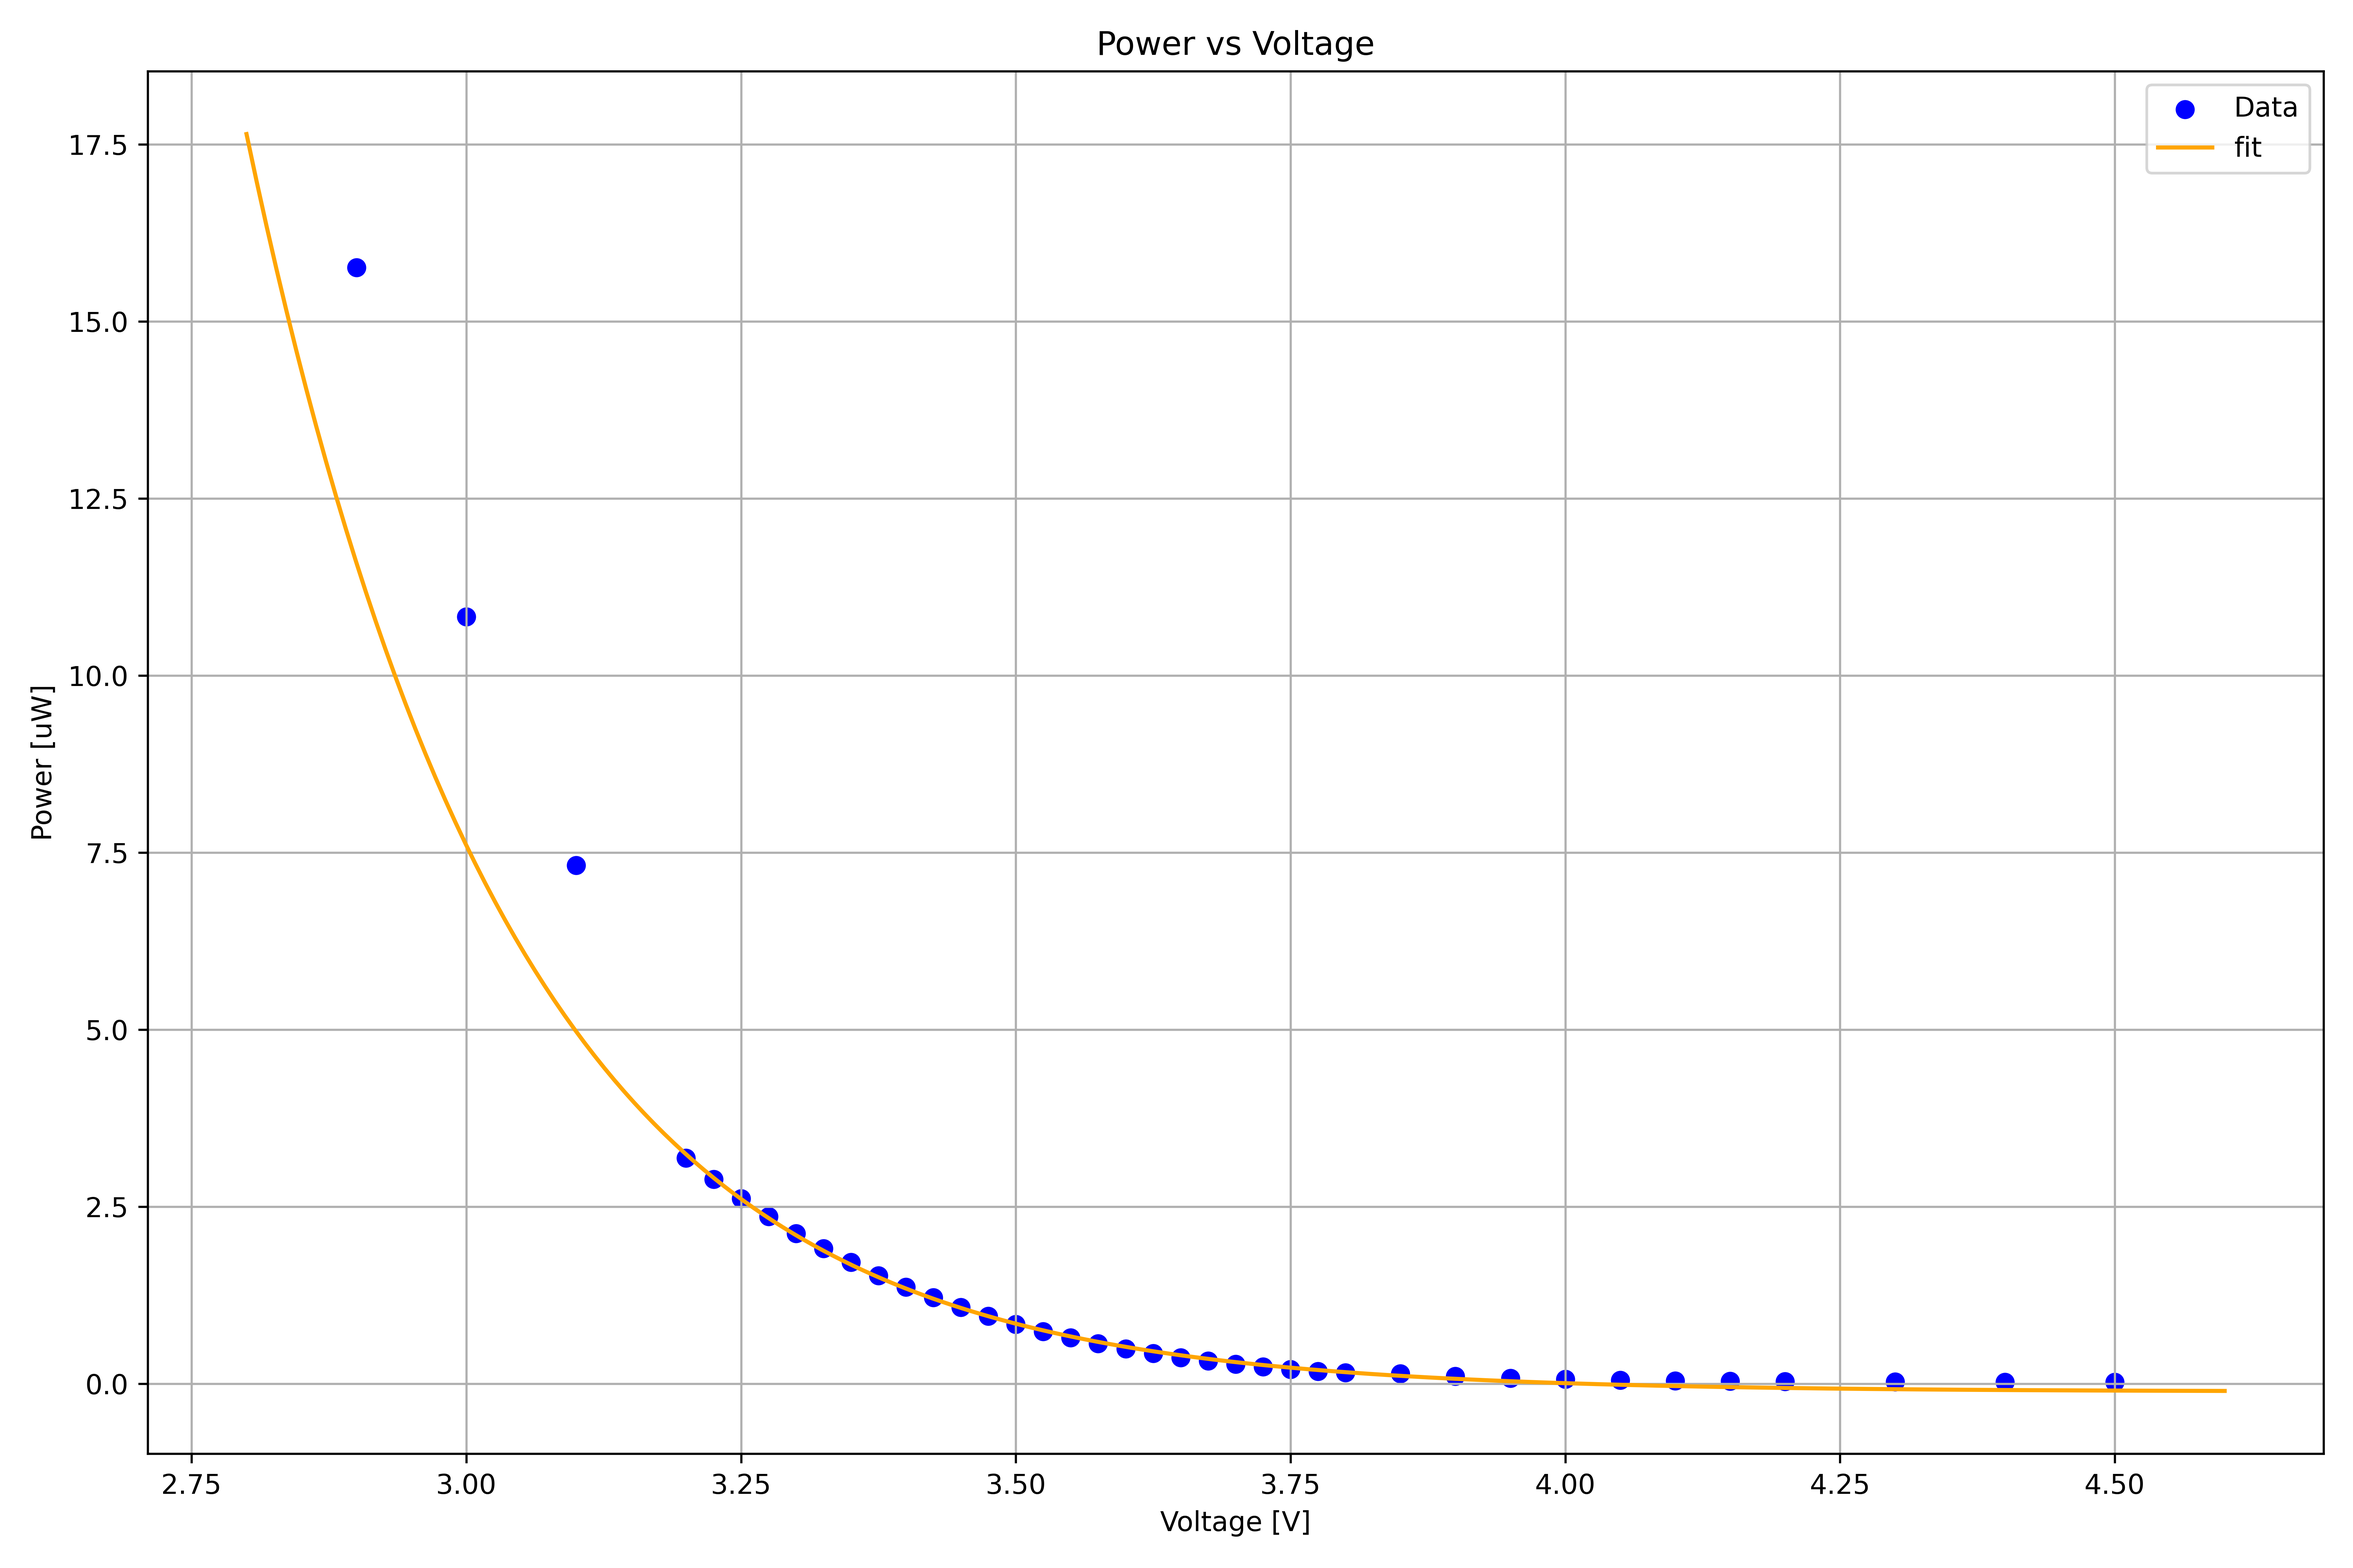
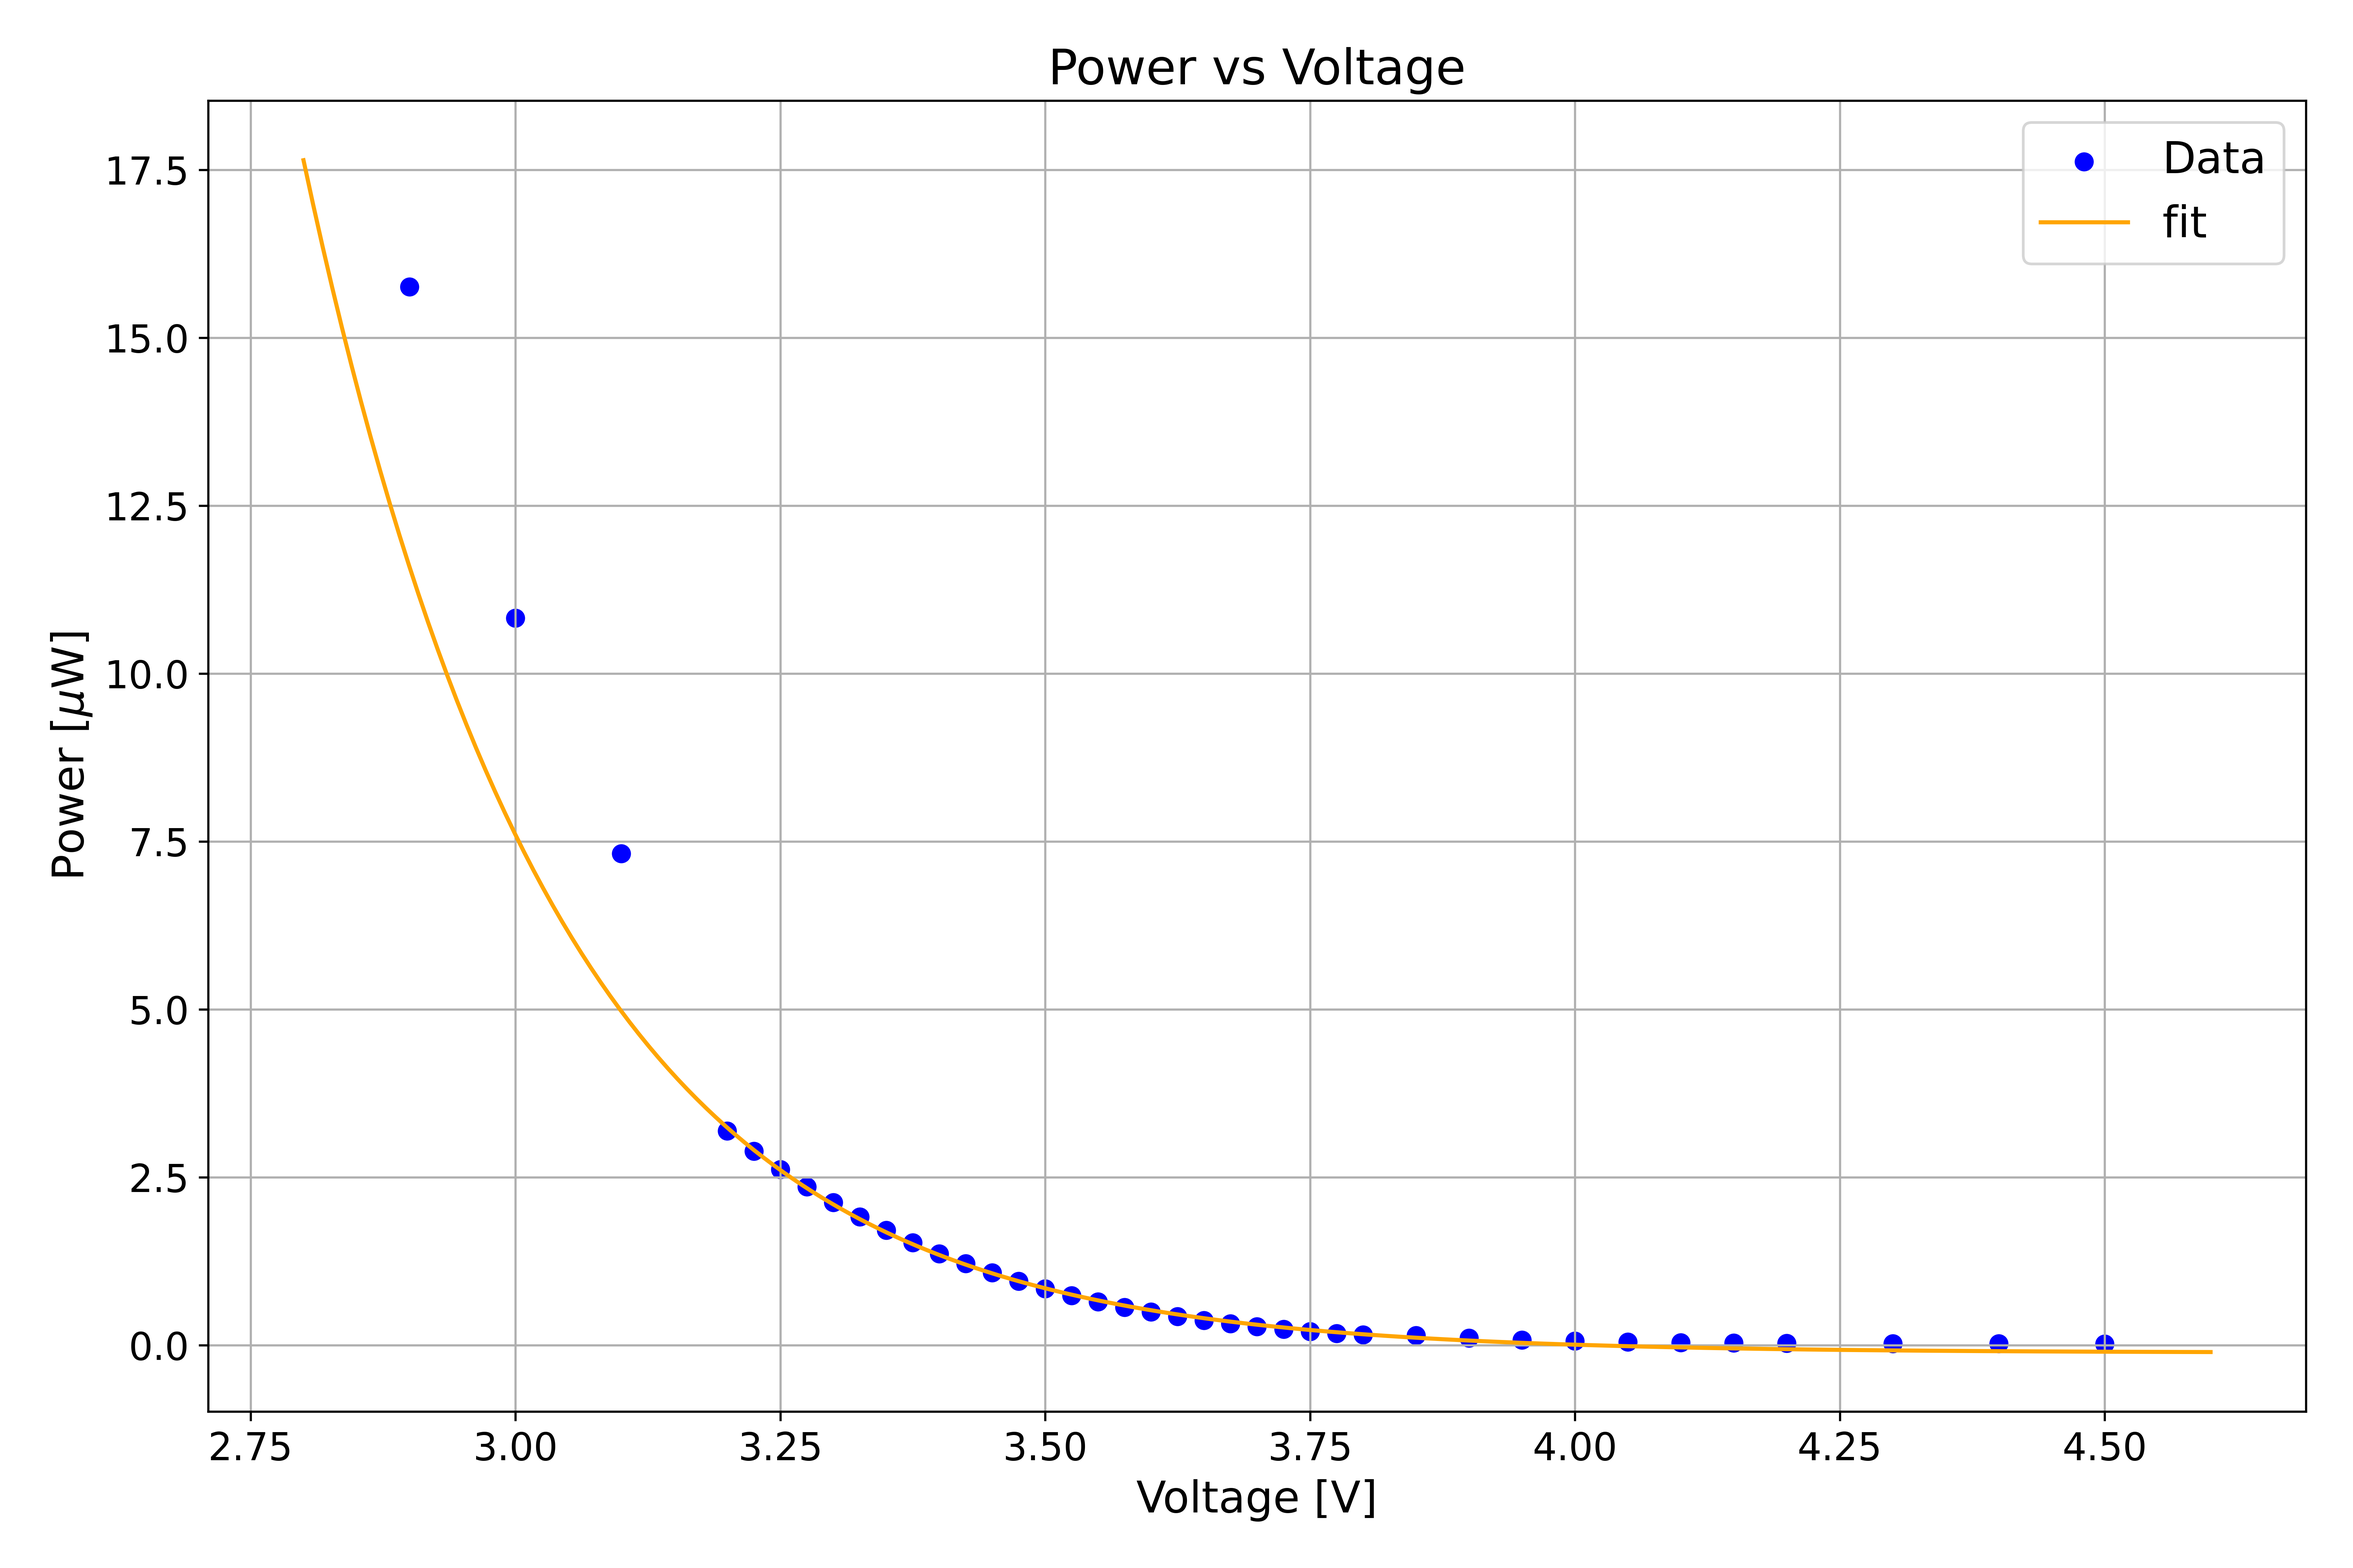
Add laser stability plotting function
- Implemented PlotLaserStability function to analyze and visualize laser stability data.
- The function reads data from a CSV file, filters it based on specific row and column values, and calculates the mean and standard deviation of the 'tot' values.
- Plots the results with error bars and saves the figure as 'LaserStabilityToT.png'.

diff --git a/timepix4/laser_power/fit_curve.py b/timepix4/laser_power/fit_curve.py
@@ -15,19 +15,23 @@ def fit_func(V, A, k, C):
 
 
 def fit_curve(df: pd.DataFrame, V_ref: float):
+    plt.rcParams.update({
+        'font.size': 16,
+        'axes.titlesize': 18,
+        'axes.labelsize': 16,
+        'xtick.labelsize': 14,
+        'ytick.labelsize': 14,
+        'figure.titlesize': 20
+    })
     df_copy = df.copy()
     df = df[((df["V"] >= 3.2) & (df["V"] <= 4.0))]
     P = df["power"].to_numpy()
     V = df["V"].to_numpy()
 
-    # w = 1 / np.sqrt(P)
-
     popt, pcov = curve_fit(
         fit_func,
         V,
         P,
-        # sigma=w,
-        # absolute_sigma=True,
         p0=[50, 1.0 / (np.ptp(V)), 0.01],
     )
 
@@ -37,7 +41,7 @@ def fit_curve(df: pd.DataFrame, V_ref: float):
     plt.scatter(df_copy["V"].to_numpy(), df_copy["power"].to_numpy(), marker="o", color="b", label="Data")
     plt.plot(Vfine, fit_func(Vfine, *popt), linestyle="-", color="orange", label="fit")
     plt.xlabel("Voltage [V]")
-    plt.ylabel("Power [uW]")
+    plt.ylabel("Power [$\mu$W]")
     # plt.xlim(3.10, 4)
     # plt.ylim(0, 5)
     plt.legend()
@@ -47,12 +51,12 @@ def fit_curve(df: pd.DataFrame, V_ref: float):
     plt.savefig("PowerVsVoltage.png", dpi=600)
     plt.show()
 
-    P_ref = fit_func(V_ref, *popt)
-    # voltages from 4.000 down to 3.050 in steps of 0.025
-    Vs = np.linspace(4.0, 3.05, int(round((4.0 - 3.05) / 0.025)) + 1)
-    Vs = np.round(Vs, 3)
-    factors = fit_func(Vs, *popt) / P_ref
-    lut = pd.DataFrame({"voltage": Vs, "relative_factor": factors})
-    lut.to_csv("lookup_table.csv", index=False)
+    # P_ref = fit_func(V_ref, *popt)
+    # # voltages from 4.000 down to 3.050 in steps of 0.025
+    # Vs = np.linspace(4.0, 3.05, int(round((4.0 - 3.05) / 0.025)) + 1)
+    # Vs = np.round(Vs, 3)
+    # factors = fit_func(Vs, *popt) / P_ref
+    # lut = pd.DataFrame({"voltage": Vs, "relative_factor": factors})
+    # lut.to_csv("lookup_table.csv", index=False)
 
     # PlotRelativePower("lookup_table.csv")

diff --git a/timepix4/converters/cluster_data.py b/timepix4/converters/cluster_data.py
@@ -7,20 +7,23 @@ def ConvertClusterData(filepath: str) -> None:
     file = uproot.open(filepath)
     tree = file["clusterTree"]
 
-    arrays_data = tree.arrays(["col", "row", "tot", "nhits", "charge"], library="pd")
+    arrays_data = tree.arrays(["col", "row", "tot", "cltot", "nhits", "charge", "clCharge"], library="pd")
     df_data = pd.DataFrame(
         {
             "col": arrays_data["col"].to_list(),
             "row": arrays_data["row"].to_list(),
             "tot": arrays_data["tot"].to_list(),
+            "cltot": arrays_data["cltot"].to_list(),
             "nhits": arrays_data["nhits"].to_list(),
-            "Raw Charge": arrays_data["charge"].to_list(),
+            "Charge": arrays_data["charge"].to_list(),
+            "clCharge": arrays_data["clCharge"].to_list(),
         }
     )
 
     df_filtered = _FilterAndUnwrap(df_data)
     df_filtered.to_csv(
         f"{sensor}-Charge-Data.csv",
+        index=False,
     )
 
 
@@ -29,5 +32,6 @@ def _FilterAndUnwrap(df: pd.DataFrame) -> pd.DataFrame:
     df_filtered = df_filtered.map(
         lambda x: x[0] if isinstance(x, (list, tuple)) and len(x) == 1 else x
     )
-    df_filtered["Raw Charge"] = df_filtered["Raw Charge"].astype(float) / 1000
+    df_filtered["Charge"] = df_filtered["Charge"].astype(float) / 1000
+    df_filtered["clCharge"] = df_filtered["clCharge"].astype(float) / 1000
     return df_filtered

diff --git a/timepix4/laser_measurement/plotter.py b/timepix4/laser_measurement/plotter.py
@@ -64,40 +64,38 @@ def CompareMethodsPlotter(filepath: str) -> None:
 
     plt.errorbar(
         lut["Charge"],
-        df["Mean Tot"],
-        yerr=df["Std Tot"],
+        lut["Charge"],
         fmt="o",
         markersize=4,
         linestyle="-",
         label="Method: Laser Calibration",
     )
     plt.errorbar(
+        lut["Charge"],
         df["Mean Charge Calibrated"],
-        df["Mean Tot"],
         xerr=df["Std Charge Calibrated"],
-        yerr=df["Std Tot"],
         fmt="o",
         markersize=4,
         linestyle="-",
         label="Method: Manual Calibration",
     )
     plt.errorbar(
+        lut["Charge"],
         df["Mean clCharge"],
-        df["Mean Tot"],
         xerr=df["Std clCharge"],
-        yerr=df["Std Tot"],
         fmt="o",
         markersize=4,
         linestyle="-",
         label="Method: Test Pulse Calibration",
     )
+
     plt.xlabel("Injected Charge [ke]", fontsize=16)
-    plt.ylabel("ToT [25ns]", fontsize=16)
+    plt.ylabel("Measured Charge [ke]", fontsize=16)
     plt.xticks(fontsize=12)
     plt.yticks(fontsize=12)
     plt.title("Comparison of Calibration Methods", fontsize=18)
     plt.xlim(0, 400)
-    plt.ylim(0, 2000)
+    plt.ylim(0, 400)
     plt.legend(fontsize=16)
     plt.grid()
     plt.tight_layout()

diff --git a/Convert.py b/Convert.py
@@ -20,21 +20,25 @@ def convert_test_pulse_data() -> None:
     #         charge_file_path=filepath,
     #         output_path_results=OutputPathResults,
     #     )
-    ConvertTestPulseData(charge_file_path= "N116_charge.txt", output_path_results="./")
+    ConvertTestPulseData(charge_file_path="N116_charge.txt", output_path_results="./")
+
 
 def convert_cluster_data() -> None:
     import os
 
+    ConvertClusterData(
+        "N116-250513-133553.root",
+    )
     # RootFilePath = "Data/Am-241 Runs/N116-250408-105332.root"
-    folder = "Data/Laser Measurements"
-    RootFilePaths = [File for File in os.listdir(folder) if File.endswith(".root")]
-    for RootFilePath in RootFilePaths:
-        ConvertClusterData(RootFilePath)
+    # folder = "Data/Laser Measurements"
+    # RootFilePaths = [File for File in os.listdir(folder) if File.endswith(".root")]
+    # for RootFilePath in RootFilePaths:
+    #     ConvertClusterData(RootFilePath)
 
 
 def main():
-    convert_test_pulse_data()
-    # convert_cluster_data()
+    # convert_test_pulse_data()
+    convert_cluster_data()
 
 
 if __name__ == "__main__":

diff --git a/timepix4/laser_power/stability.py b/timepix4/laser_power/stability.py
@@ -1,0 +1,33 @@
+import pandas as pd
+import matplotlib.pyplot as plt
+
+def PlotLaserStability(filepath: str) -> None:
+    means = []
+    std = []
+    df = pd.read_csv(filepath)
+    df_filtered = df[((df["row"] == 230) & (df["col"] == 228))]
+    for i in range(0, 61):
+        filtered = df_filtered.iloc[i : i + 60000]
+        means.append(filtered["tot"].mean())
+        std.append(filtered["tot"].std())
+
+    plt.figure(figsize=(14, 8))
+    plt.errorbar(
+        range(0, 61),
+        means,
+        yerr=std,
+        fmt="o",
+        markersize=4,
+        capsize=4,
+        linestyle="-",
+    )
+    plt.xlabel("Time [min]", fontsize=16)
+    plt.ylabel("ToT [25 ns]", fontsize=16)
+    plt.title("Laser Stability", fontsize=16)
+    plt.ylim(0, 80)
+    plt.xticks(fontsize=12)
+    plt.yticks(fontsize=12)
+    plt.grid()
+    plt.tight_layout()
+    plt.savefig("LaserStabilityToT.png", dpi=600)
+    plt.show()

diff --git a/LaserPower.py b/LaserPower.py
@@ -1,11 +1,19 @@
-from timepix4.laser_power import PowerVoltagePlot, CreateLookupTable, PlotRelativePower
+from timepix4.laser_power import (
+    PowerVoltagePlot,
+    CreateLookupTable,
+    PlotRelativePower,
+    PlotLaserStability,
+)
 
 
 def main():
     filepath = "Data/Laser Power/Power.csv"
     # PowerVoltagePlot(filepath)
     # filepath = "Data/Laser Power/laser_power_933nm.csv"
-    CreateLookupTable(filepath, 3.725)
+    # CreateLookupTable(filepath, 3.725)
     # PlotRelativePower("lookup_table.csv")
+    PlotLaserStability("N116-Charge-Data.csv")
+
+
 if __name__ == "__main__":
     main()

diff --git a/timepix4/laser_power/__init__.py b/timepix4/laser_power/__init__.py
@@ -1,4 +1,6 @@
 from .laser_power import PowerVoltagePlot
 from .fit_curve import CreateLookupTable
-from.plot_relative_power import PlotRelativePower
-__all__ = ["PowerVoltagePlot", "CreateLookupTable", "PlotRelativePower"]
+from .plot_relative_power import PlotRelativePower
+from .stability import PlotLaserStability
+
+__all__ = ["PowerVoltagePlot", "CreateLookupTable", "PlotRelativePower", "PlotLaserStability"]
